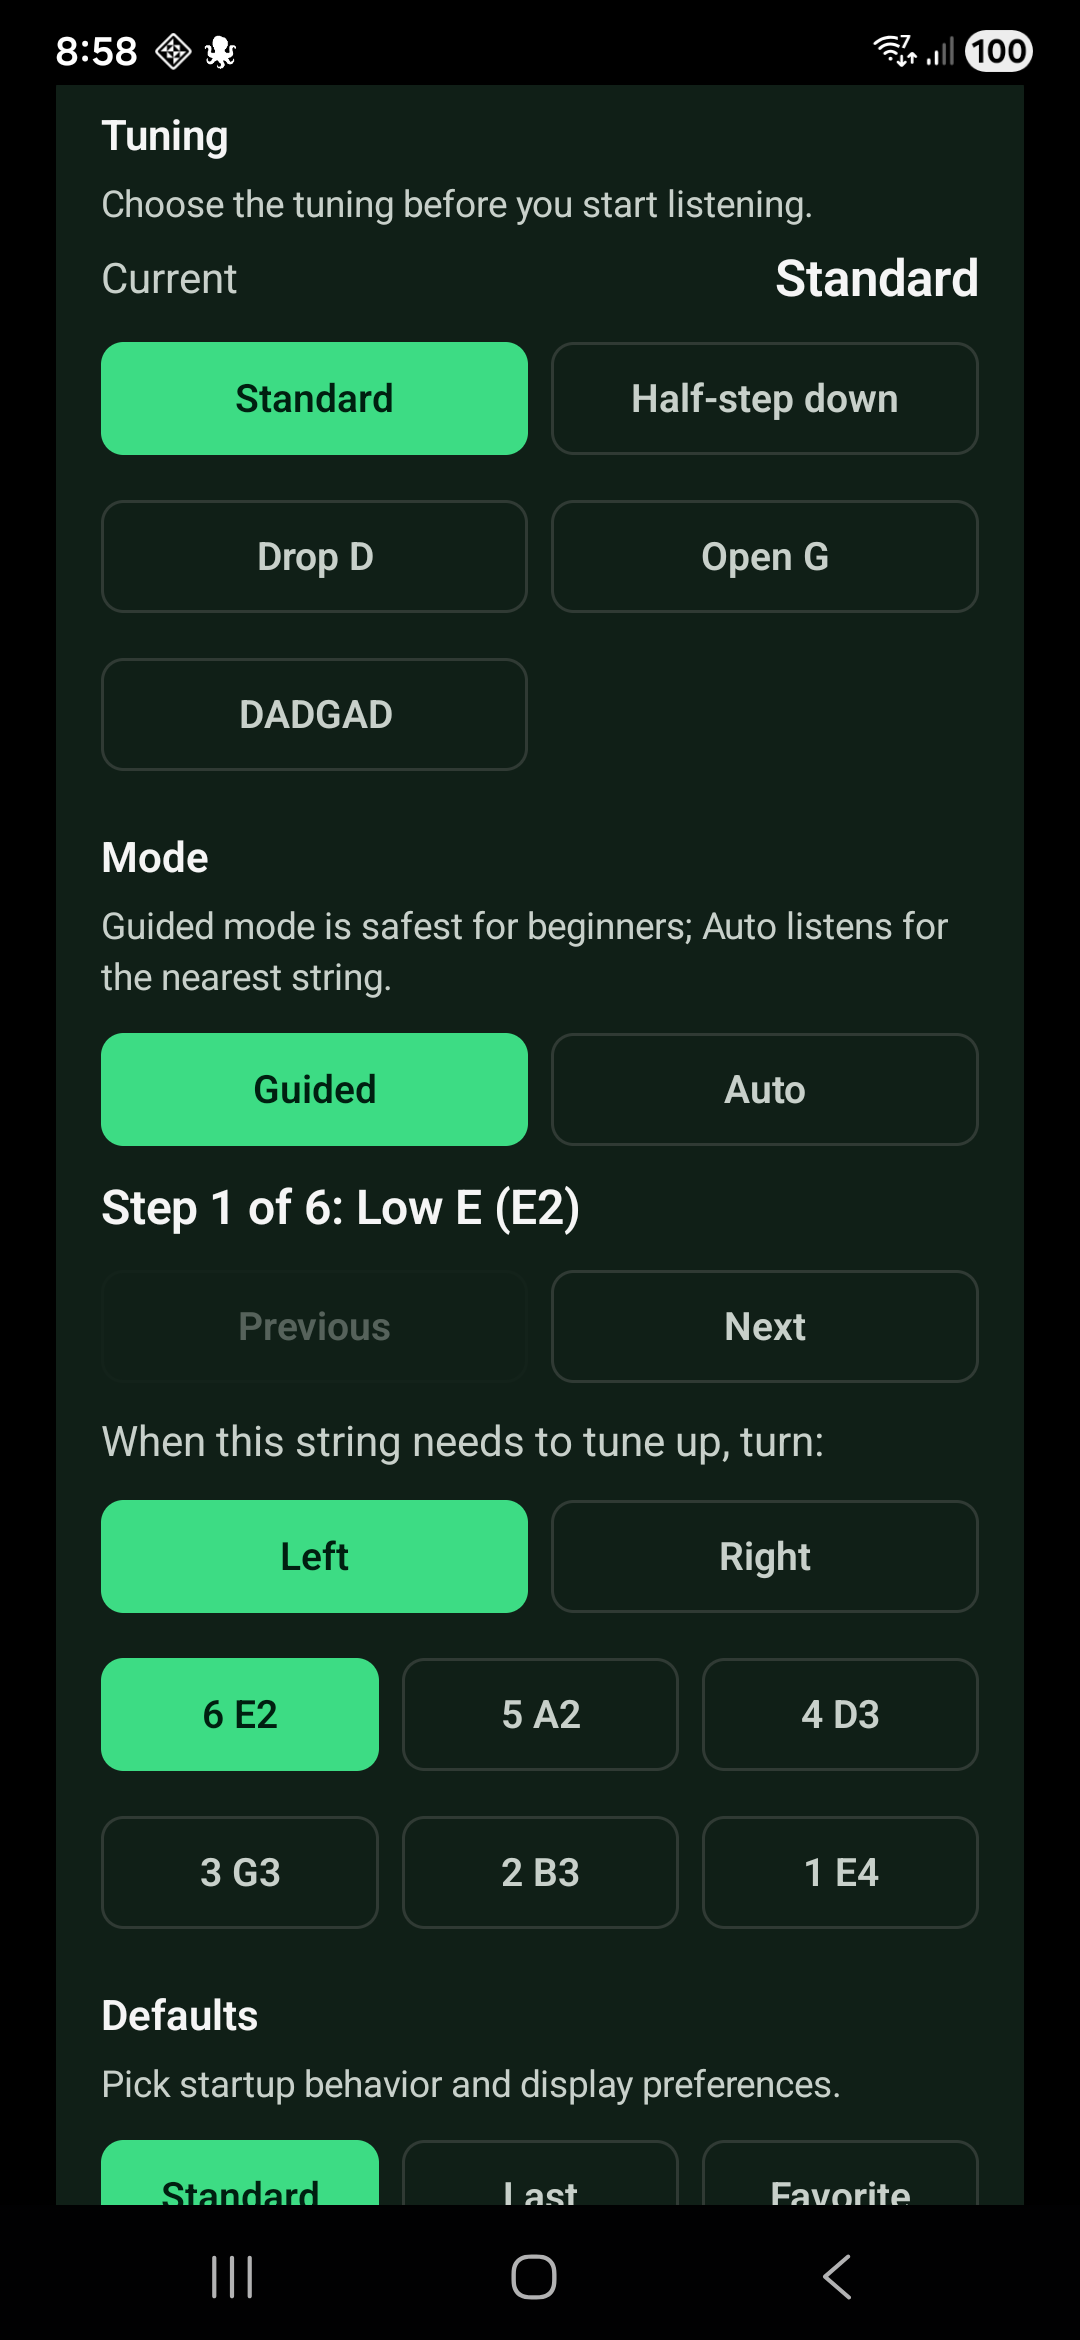
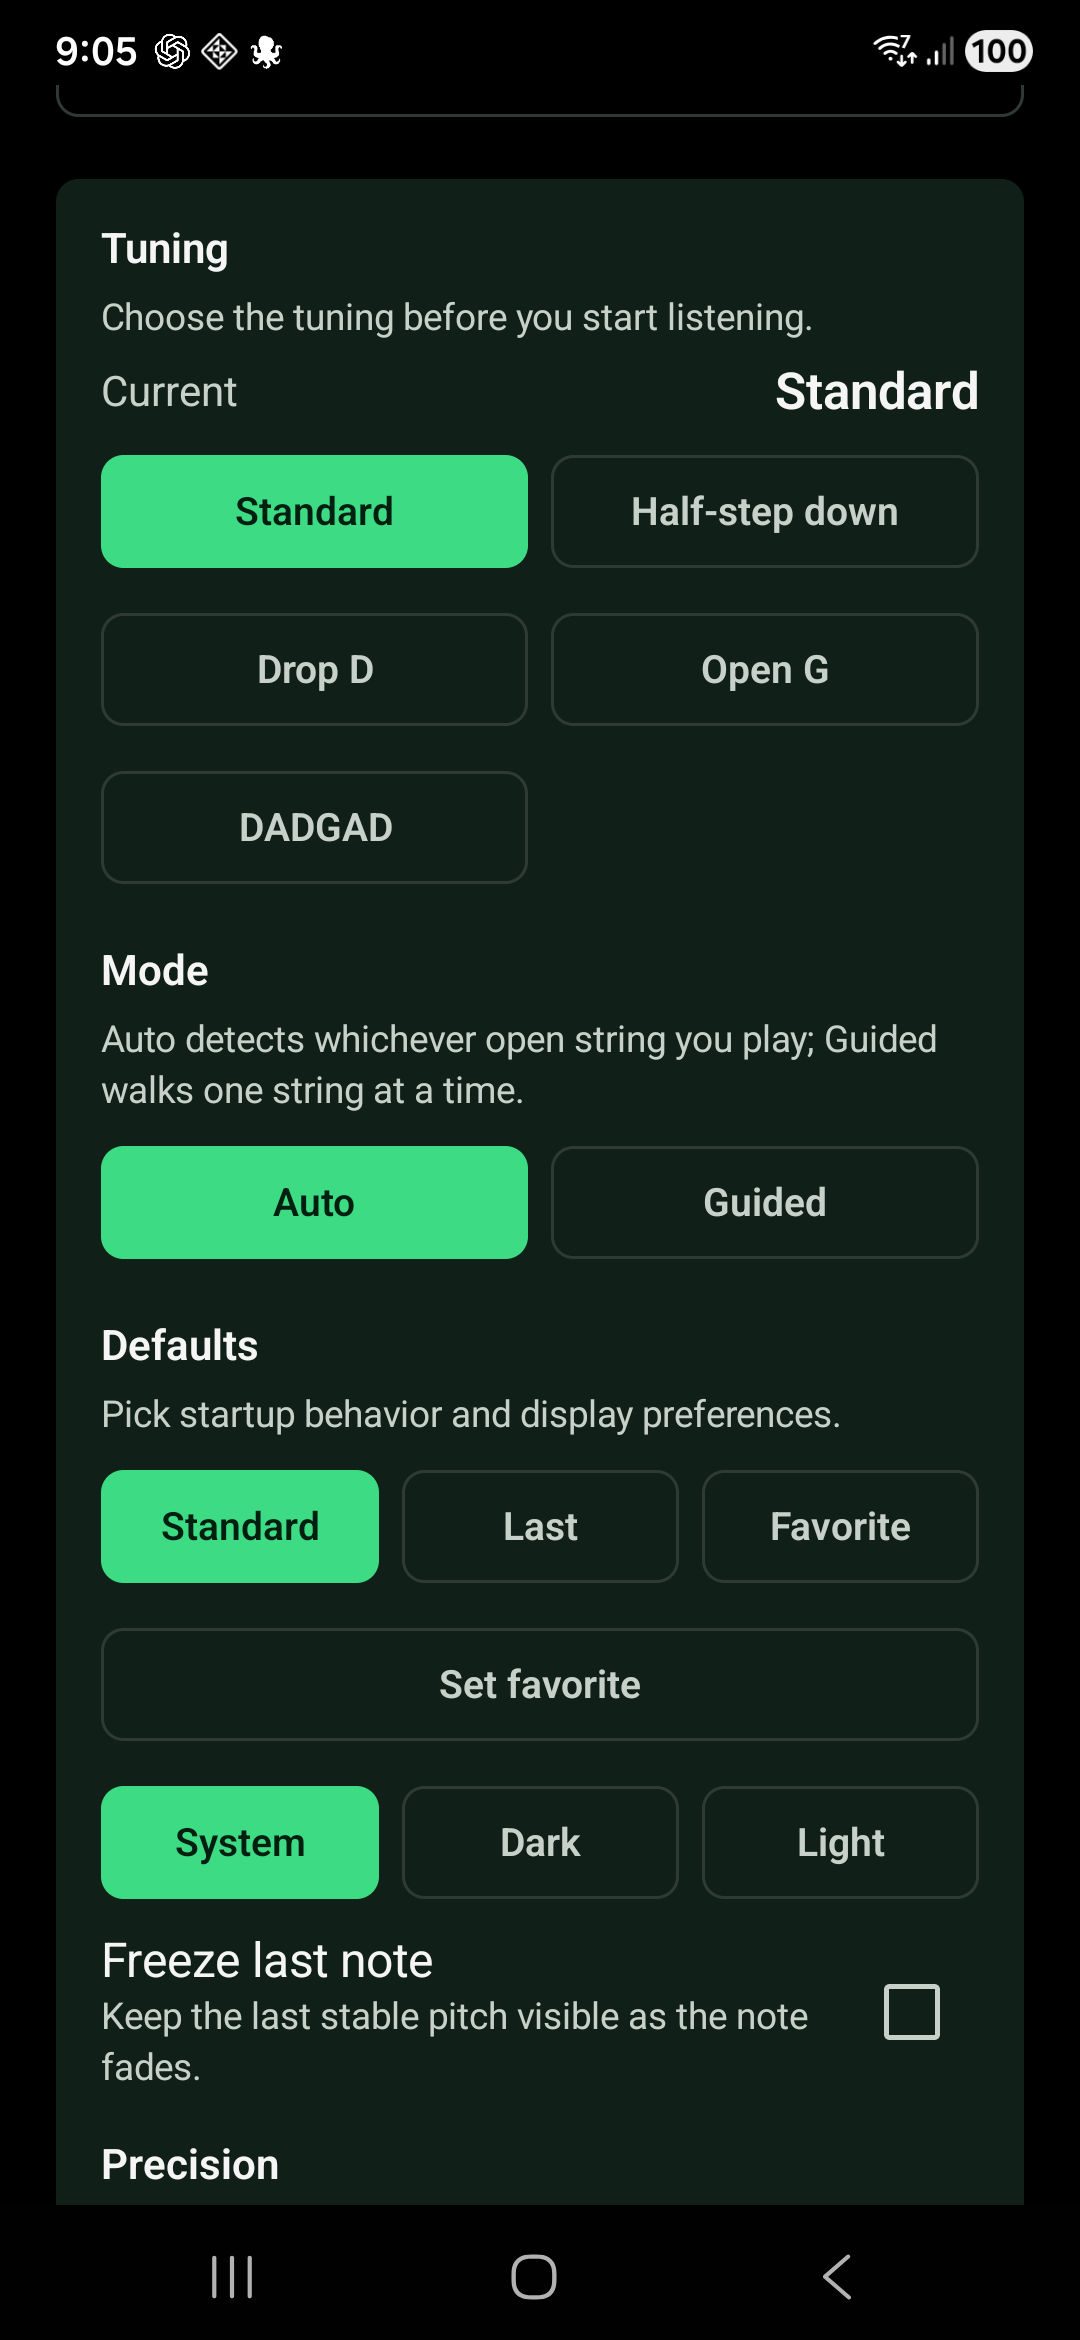
fix: detect strummed strings by default

diff --git a/app/src/test/java/com/sysadmindoc/guitartuner/pitch/YinPitchDetectorTest.kt b/app/src/test/java/com/sysadmindoc/guitartuner/pitch/YinPitchDetectorTest.kt
@@ -61,6 +61,23 @@ class YinPitchDetectorTest {
     }
 
     @Test
+    fun detectsQuietPhoneDistanceAString() {
+        val estimate = detector.detect(
+            samples = guitarLikeSignal(
+                frequencyHz = 110.0,
+                secondHarmonicLevel = 0.006,
+                noiseLevel = 0.001,
+                fundamentalLevel = 0.012,
+            ),
+            sampleRate = SampleRate,
+        )
+
+        assertEquals(SignalStatus.Detected, estimate.status)
+        val frequencyHz = requireNotNull(estimate.frequencyHz)
+        assertTrue(abs(frequencyHz - 110.0) < 1.5)
+    }
+
+    @Test
     fun avoidsG3ToG4OctaveJumpWhenSecondHarmonicIsPresent() {
         val estimate = detector.detect(
             samples = guitarLikeSignal(frequencyHz = 196.0, secondHarmonicLevel = 0.40),

diff --git a/app/src/main/java/com/sysadmindoc/guitartuner/ui/TunerScreen.kt b/app/src/main/java/com/sysadmindoc/guitartuner/ui/TunerScreen.kt
@@ -346,15 +346,15 @@ private fun StartupTuningPanel(
                     horizontalArrangement = Arrangement.spacedBy(8.dp),
                 ) {
                     TuningModeButton(
-                        label = stringResource(R.string.mode_guided),
-                        selected = tuningMode == TuningMode.Guided,
-                        onClick = { onTuningModeSelected(TuningMode.Guided) },
-                        modifier = Modifier.weight(1f),
-                    )
-                    TuningModeButton(
                         label = stringResource(R.string.mode_auto),
                         selected = tuningMode == TuningMode.Auto,
                         onClick = { onTuningModeSelected(TuningMode.Auto) },
+                        modifier = Modifier.weight(1f),
+                    )
+                    TuningModeButton(
+                        label = stringResource(R.string.mode_guided),
+                        selected = tuningMode == TuningMode.Guided,
+                        onClick = { onTuningModeSelected(TuningMode.Guided) },
                         modifier = Modifier.weight(1f),
                     )
                 }

diff --git a/app/src/main/java/com/sysadmindoc/guitartuner/audio/AudioCaptureController.kt b/app/src/main/java/com/sysadmindoc/guitartuner/audio/AudioCaptureController.kt
@@ -145,6 +145,7 @@ class AudioCaptureController(
 
         try {
             recorder.startRecording()
+            val recorderSampleRate = recorder.sampleRate.takeIf { it > 0 } ?: SampleRate
             val buffer = ShortArray(FrameSize)
             while (scope.isActive && captureJob?.isActive == true) {
                 val read = recorder.read(buffer, 0, buffer.size, AudioRecord.READ_BLOCKING)
@@ -154,7 +155,7 @@ class AudioCaptureController(
                     samples[index] = buffer[index] / Short.MAX_VALUE.toFloat()
                 }
 
-                val estimate = pitchDetector.detect(samples, SampleRate)
+                val estimate = pitchDetector.detect(samples, recorderSampleRate)
                 val measurement = measurementSmoother.apply(tuningAnalyzer.analyze(estimate))
                 val measurementFrame = measurementFreeze.apply(
                     estimate = estimate,
@@ -198,10 +199,10 @@ class AudioCaptureController(
 
         val bufferBytes = maxOf(minimumBuffer, FrameSize * Short.SIZE_BYTES * 2)
         val sources = buildList {
+            add(MediaRecorder.AudioSource.MIC)
             if (Build.VERSION.SDK_INT >= Build.VERSION_CODES.N) {
                 add(MediaRecorder.AudioSource.UNPROCESSED)
             }
-            add(MediaRecorder.AudioSource.MIC)
         }
 
         for (source in sources) {

diff --git a/app/src/main/java/com/sysadmindoc/guitartuner/settings/TunerSettings.kt b/app/src/main/java/com/sysadmindoc/guitartuner/settings/TunerSettings.kt
@@ -5,7 +5,7 @@ import com.sysadmindoc.guitartuner.tuning.GuitarTunings
 data class TunerSettings(
     val calibration: PitchCalibration = PitchCalibration(),
     val centsTolerance: Double = 5.0,
-    val noiseGateRms: Double = 0.008,
+    val noiseGateRms: Double = 0.003,
     val themeMode: ThemeMode = ThemeMode.System,
 ) {
     init {
@@ -36,7 +36,7 @@ data class StoredTunerPreferences(
     val freezeAfterDecay: Boolean = false,
     val a4Hz: Double = 440.0,
     val centsTolerance: Double = 5.0,
-    val noiseGateRms: Double = 0.008,
+    val noiseGateRms: Double = 0.003,
     val pegTurnDirections: Map<Int, PegTurnDirection> = emptyMap(),
 ) {
     init {

diff --git a/app/src/test/java/com/sysadmindoc/guitartuner/settings/TunerSettingsTest.kt b/app/src/test/java/com/sysadmindoc/guitartuner/settings/TunerSettingsTest.kt
@@ -11,7 +11,7 @@ class TunerSettingsTest {
 
         assertEquals(440.0, settings.calibration.a4Hz, 0.0)
         assertEquals(5.0, settings.centsTolerance, 0.0)
-        assertEquals(0.008, settings.noiseGateRms, 0.0)
+        assertEquals(0.003, settings.noiseGateRms, 0.0)
         assertEquals(ThemeMode.System, settings.themeMode)
     }
 
@@ -21,7 +21,7 @@ class TunerSettingsTest {
 
         assertEquals(440.0, preferences.a4Hz, 0.0)
         assertEquals(5.0, preferences.centsTolerance, 0.0)
-        assertEquals(0.008, preferences.noiseGateRms, 0.0)
+        assertEquals(0.003, preferences.noiseGateRms, 0.0)
         assertEquals(ThemeMode.System, preferences.themeMode)
     }
 

diff --git a/app/src/main/java/com/sysadmindoc/guitartuner/MainActivity.kt b/app/src/main/java/com/sysadmindoc/guitartuner/MainActivity.kt
@@ -57,7 +57,7 @@ private fun TunerRoute() {
     val controller = remember(scope) { AudioCaptureController(scope = scope) }
     var showPrivacy by rememberSaveable { mutableStateOf(false) }
     var selectedTuningId by rememberSaveable { mutableStateOf<String?>(null) }
-    var tuningMode by rememberSaveable { mutableStateOf(TuningMode.Guided) }
+    var tuningMode by rememberSaveable { mutableStateOf(TuningMode.Auto) }
     var guidedStringNumber by rememberSaveable { mutableStateOf(6) }
     var tuningFileMessage by remember { mutableStateOf<TuningFileMessage?>(null) }
     val preferencesRepository = remember(context.applicationContext) {

diff --git a/app/src/main/java/com/sysadmindoc/guitartuner/pitch/YinPitchDetector.kt b/app/src/main/java/com/sysadmindoc/guitartuner/pitch/YinPitchDetector.kt
@@ -7,7 +7,7 @@ import kotlin.math.sqrt
 data class PitchDetectorConfig(
     val minFrequencyHz: Double = 70.0,
     val maxFrequencyHz: Double = 450.0,
-    val silenceRms: Double = 0.008,
+    val silenceRms: Double = 0.003,
     val highNoiseRms: Double = 0.04,
     val clippingRatio: Double = 0.02,
     val yinThreshold: Double = 0.15,

diff --git a/README.md b/README.md
@@ -11,8 +11,8 @@ GuitarTuner is an open-source Android app for tuning an acoustic guitar by sound
 - Native Android app with Kotlin, Jetpack Compose, and Material 3.
 - Offline-first design with no network permission.
 - Microphone-only pitch detection using lifecycle-bound Android `AudioRecord` capture.
-- Guided standard-tuning workflow for acoustic guitar.
-- Automatic standard-string detection with confidence and signal feedback.
+- Auto-first standard-string detection with confidence and signal feedback.
+- Guided standard-tuning workflow for acoustic guitar when the player wants a step-by-step path.
 - Clear tune-up / tune-down guidance with optional peg-direction calibration.
 - AMOLED dark theme by default with an accessible light theme.
 
@@ -78,7 +78,7 @@ The release workflow is ready in this repository, but it only runs after the pro
 
 ## Repository Status
 
-GuitarTuner v0.0.1 has a native Android scaffold with an in-project YIN pitch detector, stable-frame smoothing, second-harmonic octave correction, an explicit `PitchResult` contract, Guided and Auto tuning modes, a low-E-to-high-E walkthrough, per-string peg-direction calibration, persisted A4 calibration, persisted cents tolerance, persisted noise gate control, persisted System/Dark/Light theme selection, built-in and custom tunings, a polished first-screen action flow, sectioned tuning controls, a first-screen local-audio privacy note, a confidence-aware main tuner readout, explicit signal and permission states, a standard six-string tuning model, Compose tuner screen, merged-manifest permission gate, JVM tests for standard-string, octave-error, and local WAV fixture regression coverage, and a physical-device debug capture smoke test on a Samsung SM-S938B.
+GuitarTuner v0.0.1 has a native Android scaffold with an in-project YIN pitch detector, lower default noise gate for real phone microphones, stable-frame smoothing, second-harmonic octave correction, an explicit `PitchResult` contract, Auto and Guided tuning modes, a low-E-to-high-E walkthrough, per-string peg-direction calibration, persisted A4 calibration, persisted cents tolerance, persisted noise gate control, persisted System/Dark/Light theme selection, built-in and custom tunings, a polished first-screen action flow, sectioned tuning controls, a first-screen local-audio privacy note, a confidence-aware main tuner readout, explicit signal and permission states, a standard six-string tuning model, Compose tuner screen, merged-manifest permission gate, JVM tests for standard-string, octave-error, quiet-input, and local WAV fixture regression coverage, and a physical-device debug capture smoke test on a Samsung SM-S938B.
 
 ## Screenshots
 

diff --git a/CHANGELOG.md b/CHANGELOG.md
@@ -39,3 +39,4 @@
 - Expanded signed release build documentation with local keystore, GitHub secret, APK/AAB, and checksum commands.
 - Prepared the GitHub release workflow to publish or update a tagged release once a remote and signing secrets exist.
 - Refined the tuner UI with first-screen listening actions, guided target empty states, sectioned settings, accessible selectable controls, stronger privacy copy, fuller theme tokens, and refreshed physical-device screenshots.
+- Fixed real-use detection startup by making Auto mode the default, lowering the default microphone noise gate, preferring the reliable microphone source, using the recorder's actual sample rate, and adding quiet-input pitch regression coverage.